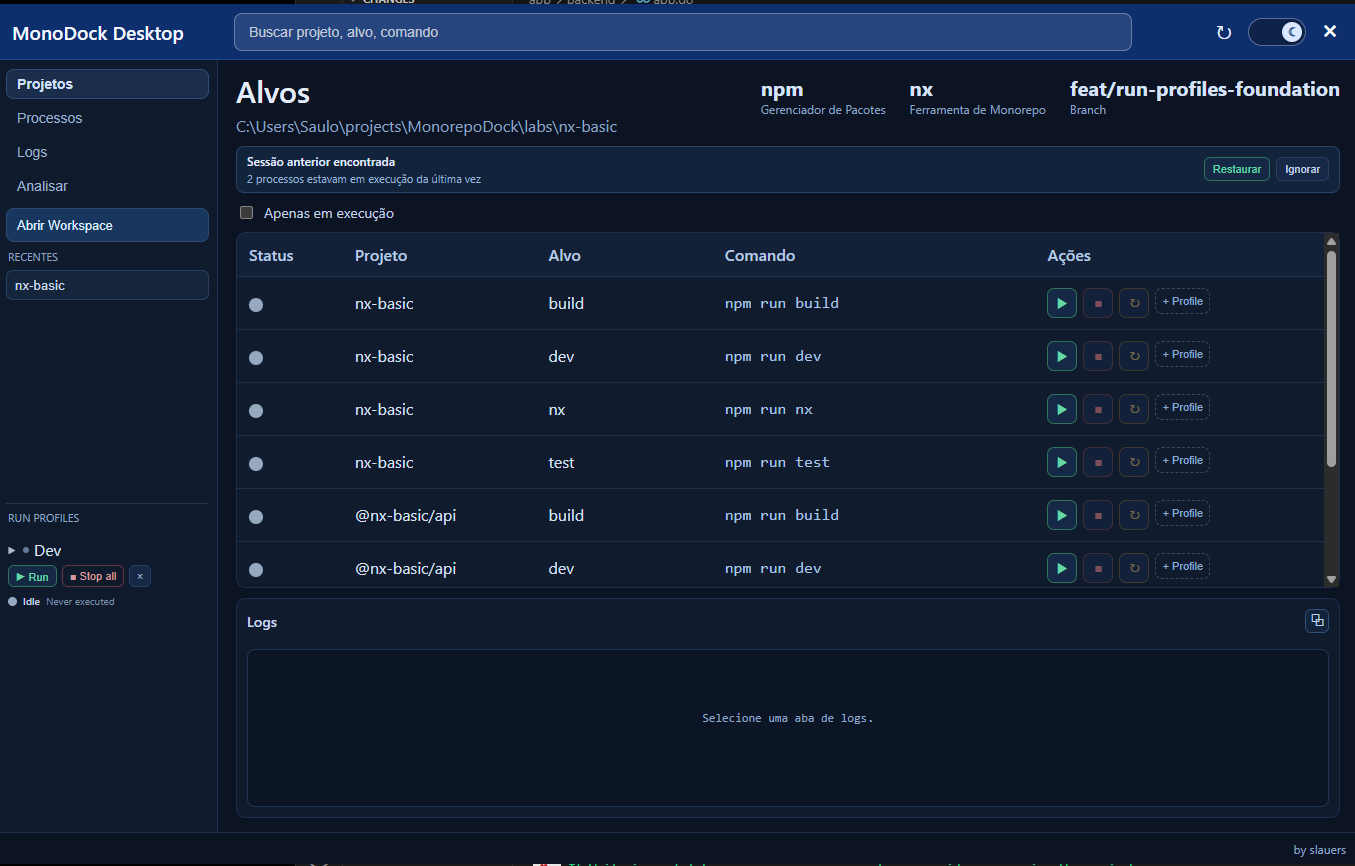
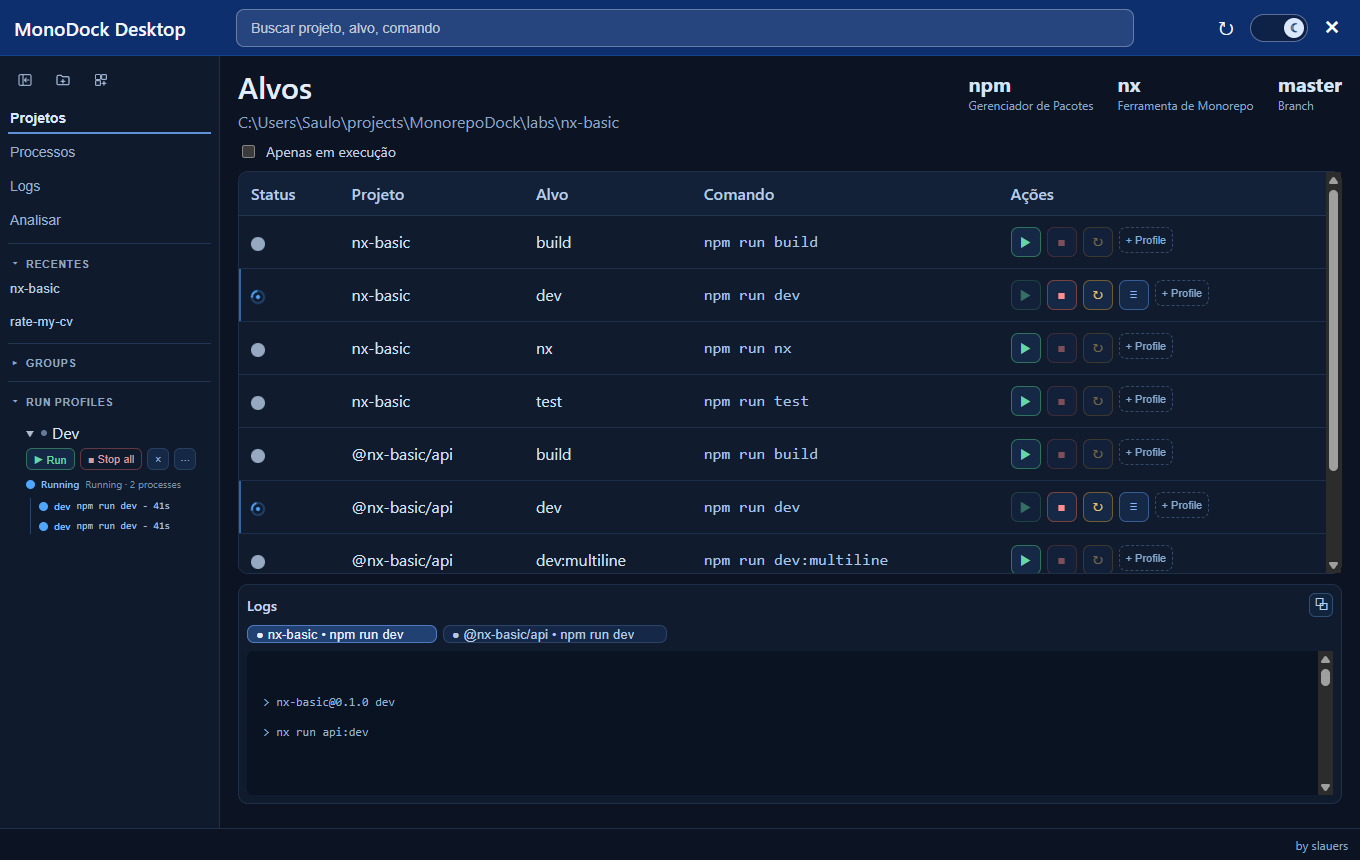
fix: refine sidebar tree flow and runtime/profile status sync (#13)

diff --git a/app/frontend/src/styles.css b/app/frontend/src/styles.css
@@ -419,8 +419,9 @@ body {
   border-right: 1px solid #1f2f49;
   background: #0f1a2c;
   padding: 9px 8px;
-  display: grid;
-  grid-template-rows: auto auto minmax(80px, auto) minmax(80px, auto) minmax(120px, 1fr);
+  display: flex;
+  flex-direction: column;
+  align-items: stretch;
   gap: 7px;
   min-height: 0;
   overflow: hidden;
@@ -464,8 +465,8 @@ body {
 .sidebar-section {
   border-top: 1px solid #223652;
   padding-top: 6px;
-  min-height: 0;
-  display: grid;
+  min-height: auto;
+  display: block;
   gap: 6px;
 }
 
@@ -550,17 +551,15 @@ body {
 }
 
 .recent-block {
-  min-height: 110px;
-  display: grid;
-  grid-template-rows: 1fr;
   min-height: 0;
+  display: block;
 }
 
 .recent-list {
   margin: 0;
   padding: 0;
   list-style: none;
-  overflow: auto;
+  overflow: hidden;
   display: grid;
   gap: 5px;
   align-content: start;
@@ -587,11 +586,9 @@ body {
 .profiles-block {
   border-top: 0;
   padding-top: 0;
-  display: grid;
-  grid-template-rows: auto 1fr;
-  gap: 5px;
+  display: block;
   min-height: 0;
-  overflow: hidden;
+  overflow: visible;
 }
 
 .profiles-list {
@@ -605,9 +602,29 @@ body {
   min-height: 0;
 }
 
+.run-profiles-block {
+  padding-left: 10px;
+  display: block;
+  min-height: 0;
+}
+
+.run-profiles-list .profile-item {
+  padding-left: 8px;
+}
+
+.run-profiles-block .profiles-scroll {
+  display: block;
+  overflow: visible;
+}
+
+.run-profiles-list {
+  display: grid;
+  align-content: start;
+}
+
 .profiles-scroll {
   min-height: 0;
-  overflow: auto;
+  overflow: hidden;
 }
 
 .profile-item {

diff --git a/app/frontend/src/App.tsx b/app/frontend/src/App.tsx
@@ -275,6 +275,13 @@ export default function App() {
     }
   };
 
+  const refreshProfileStates = async () => {
+    const runtimeStates = await wailsService.listProfileRuntimeStates();
+    const indexed: Record<string, ProfileRuntimeState> = {};
+    for (const state of runtimeStates) indexed[state.profileID] = state;
+    setProfileStates(indexed);
+  };
+
   const loadGroups = async () => {
     const items = await wailsService.listGroups();
     setGroups(items);
@@ -289,6 +296,10 @@ export default function App() {
   useEffect(() => {
     void loadProfiles();
   }, [selectedPath]);
+
+  useEffect(() => {
+    void refreshProfileStates();
+  }, [processes, selectedPath]);
 
   useEffect(() => {
     const saved = window.localStorage.getItem("monodock-theme");
@@ -811,7 +822,7 @@ export default function App() {
               <span>{t("runProfiles", locale).toUpperCase()}</span>
             </button>
             {showRunProfiles && (
-              <div className="profiles-block">
+              <div className="profiles-block run-profiles-block">
             <div className="profiles-scroll">
               {profileLoading && <div className="profiles-empty">Loading...</div>}
               {!profileLoading && visibleProfiles.length === 0 && (
@@ -821,7 +832,7 @@ export default function App() {
                 </div>
               )}
               {!profileLoading && visibleProfiles.length > 0 && (
-                <ul className="profiles-list">
+                <ul className="profiles-list run-profiles-list">
                   {visibleProfiles.map((profile) => (
                     <li key={profile.id} className="profile-item">
                     <div className="profile-meta">

diff --git a/README.md b/README.md
@@ -2,7 +2,7 @@
 
 ## GitHub Pages
 
-https://slauers.github.io/MonorepoDock/
+https://slauers.github.io/monodock/
 
 MonoDock is a visual desktop runtime for monorepos.  
 It is designed to feel like Docker Desktop for workspace operations: detect projects, run targets, manage processes, and inspect logs in one place.
@@ -52,8 +52,8 @@ Sample monorepos for testing are available under `labs/`:
 
 Project page and screenshots:
 
-- https://slauers.github.io/MonorepoDock/
-- https://slauers.github.io/MonorepoDock/screenshots.html
+- https://slauers.github.io/monodock/
+- https://slauers.github.io/monodock/screenshots.html
 
 ## Release Pipeline
 